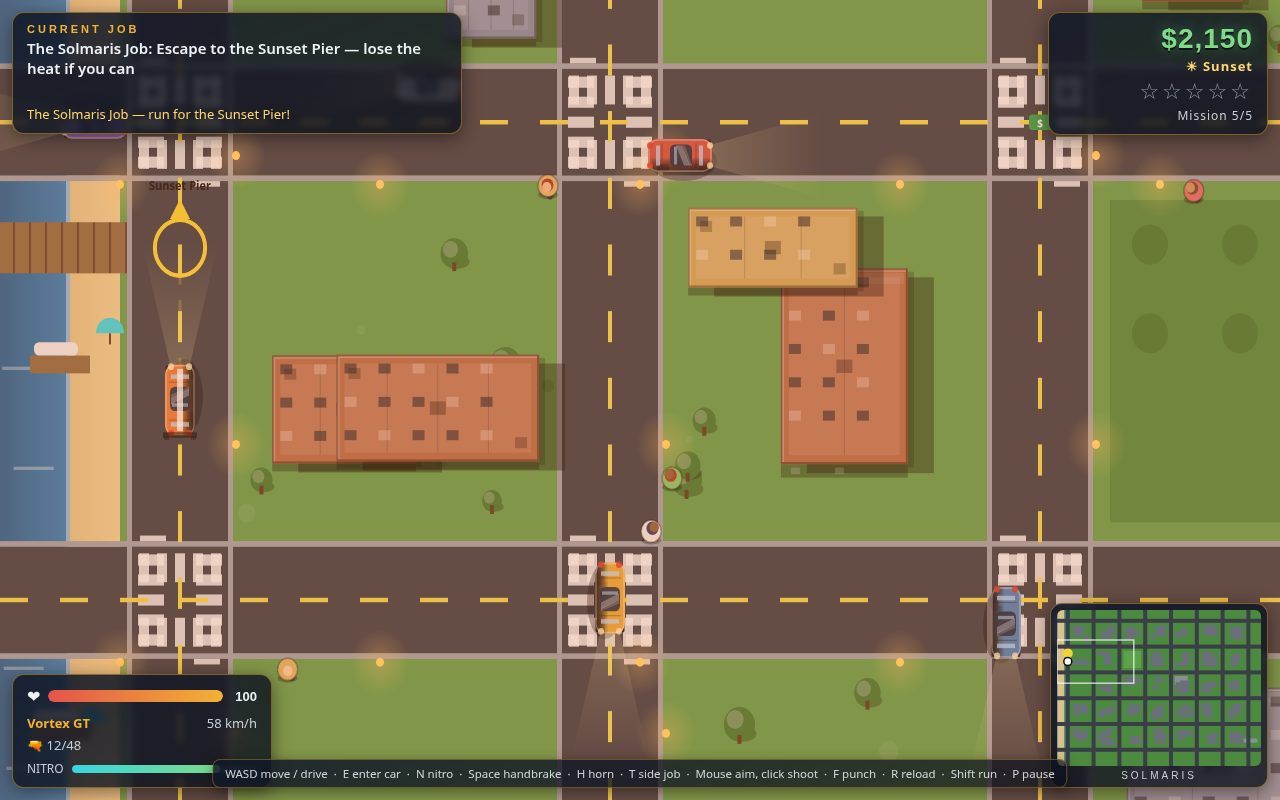
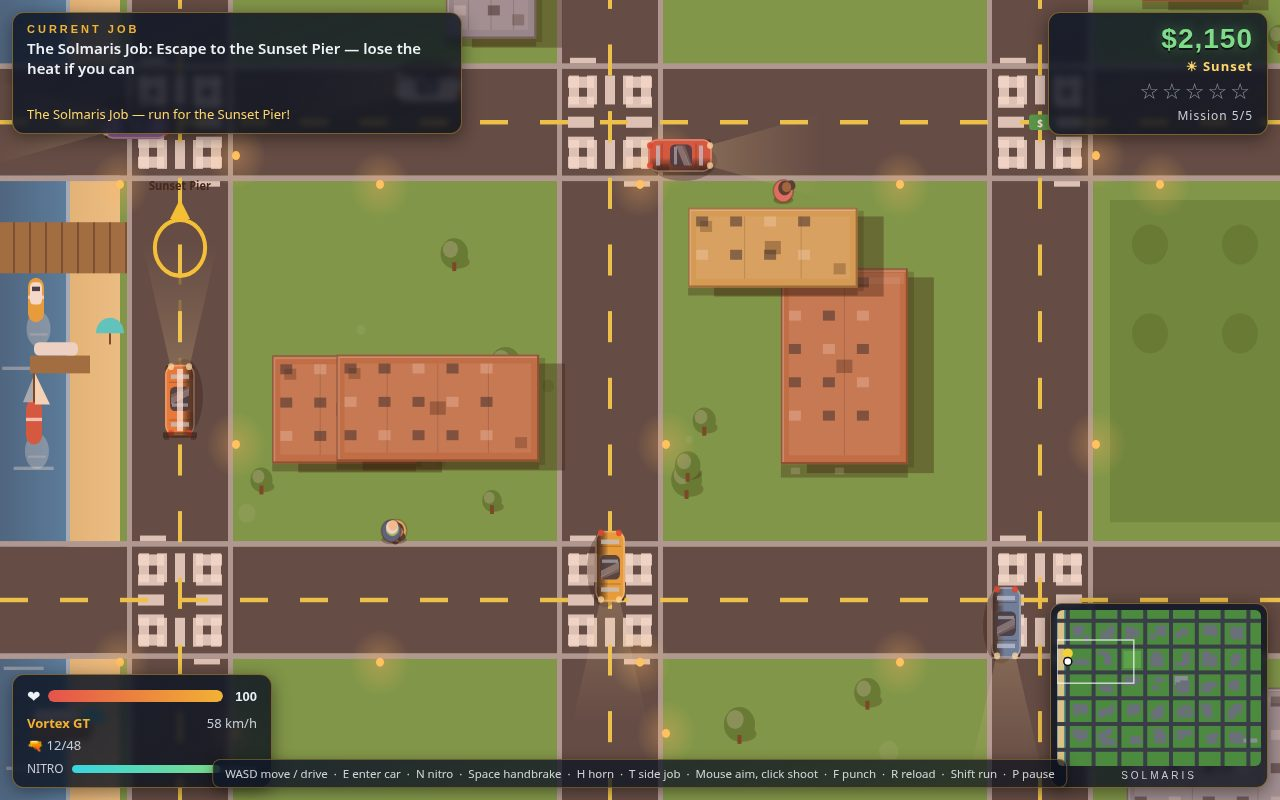
Solmaris v5: win screenshot, sunset wet reflections, harbour boats, ped hats/jackets, dynamic sign type, night braking close-up

diff --git a/game/src/render.js b/game/src/render.js
@@ -73,6 +73,54 @@ export function createRenderer(canvas, hud) {
     // Wet sand line where the water meets the beach.
     c.fillStyle = night ? 'rgba(120, 160, 200, 0.25)' : 'rgba(255,255,255,0.45)';
     c.fillRect(66, cam.y - 20, 4, VIEW_H + 40);
+    // v5 visual: near-shore boats, so the ocean strip is not just a gradient
+    // — a sailboat and a yacht at anchor, each with a pale reflection
+    // shimmering under the hull and a sail or cabin on top.
+    for (const b of city.sailboats || []) {
+      if (b.x < cam.x - 40 || b.x > cam.x + VIEW_W + 40 || b.y < cam.y - 40 || b.y > cam.y + VIEW_H + 40) continue;
+      // Reflection: a soft pale smear below the hull, drifting with the swell.
+      const sway = Math.sin(state.time * 0.9 + b.y * 0.05) * 3;
+      c.fillStyle = night ? 'rgba(140, 190, 230, 0.14)' : 'rgba(255,255,255,0.28)';
+      c.beginPath();
+      c.ellipse(b.x + sway, b.y + 26, 12, 16, 0, 0, Math.PI * 2);
+      c.fill();
+      c.fillStyle = night ? 'rgba(140, 190, 230, 0.10)' : 'rgba(255,255,255,0.20)';
+      c.fillRect(b.x - 9 + sway, b.y + 30, 18, 2);
+      // Hull: a rounded vertical hull with a pale deck stripe.
+      c.fillStyle = b.hull;
+      c.beginPath();
+      c.roundRect(b.x - 8, b.y - 20, 16, 40, 8);
+      c.fill();
+      c.fillStyle = 'rgba(255,255,255,0.75)';
+      c.fillRect(b.x - 8, b.y - 4, 16, 3);
+      if (b.kind === 'sail' && b.sail) {
+        // Mast and a triangular sail catching the sunset light.
+        c.fillStyle = '#5a3a22';
+        c.fillRect(b.x - 1, b.y - 44, 2, 26);
+        c.fillStyle = b.sail;
+        c.beginPath();
+        c.moveTo(b.x + 1, b.y - 44);
+        c.lineTo(b.x + 1, b.y - 16);
+        c.lineTo(b.x + 16, b.y - 16);
+        c.closePath();
+        c.fill();
+        c.fillStyle = 'rgba(255,255,255,0.5)';
+        c.beginPath();
+        c.moveTo(b.x - 1, b.y - 40);
+        c.lineTo(b.x - 1, b.y - 18);
+        c.lineTo(b.x - 11, b.y - 18);
+        c.closePath();
+        c.fill();
+      } else {
+        // Yacht: a white cabin with dark windows on the hull.
+        c.fillStyle = '#f2f2f2';
+        c.beginPath();
+        c.roundRect(b.x - 6, b.y - 16, 12, 20, 4);
+        c.fill();
+        c.fillStyle = '#1c2f4a';
+        c.fillRect(b.x - 4, b.y - 12, 8, 4);
+      }
+    }
     // The park block.
     c.fillStyle = night ? '#23401c' : PALETTE.park;
     c.fillRect(city.park.x, city.park.y, city.park.w, city.park.h);
@@ -274,7 +322,12 @@ export function createRenderer(canvas, hud) {
           ? 0.55 + 0.45 * Math.abs(Math.sin(state.time * 11 + b.x * 0.13))
           : 1;
         const glow = (tod === 'night' || tod === 'sunset') ? 1 : 0.55;
-        const size = Math.min(15, b.w / (b.sign.text.length * 0.8));
+        // v5: the type shrinks with the building — the plate is capped at
+        // the building width minus 18 px, so a long word on a narrow block
+        // (24H MART on a 90 px frontage) drops a size instead of spilling
+        // past the plate. city.js uses this same formula for its overlap
+        // guard, so the two can never disagree.
+        const size = Math.max(9, Math.min(15, (b.w - 18) / (b.sign.text.length * 0.68)));
         const tw = b.sign.text.length * size * 0.68;
         const cy = b.y + b.h + wallH + 13;
         // v4: a sign cut by the viewport edge reads as a broken word ("AR",
@@ -323,8 +376,9 @@ export function createRenderer(canvas, hud) {
     // v4 visual: rain-slick asphalt mirrors the street lamps — each lamp
     // stretches into a pale smear along its road, so a rainy night reads as
     // wet instead of just dark. A lamp sits 56 px off its own road, so the
-    // nearer road line decides which way the smear runs.
-    if (night && state.rain > 0.03) {
+    // nearer road line decides which way the smear runs. v5: a sunset shower
+    // gets the same treatment — wet roads at dusk, not only after dark.
+    if ((night || tod === 'sunset') && state.rain > 0.03) {
       const wet = Math.min(1, state.rain);
       for (const l of city.lamps) {
         if (l.x < cam.x - 60 || l.x > cam.x + VIEW_W + 60 || l.y < cam.y - 60 || l.y > cam.y + VIEW_H + 60) continue;
@@ -363,8 +417,9 @@ export function createRenderer(canvas, hud) {
     // v2 visual: the body turns on its eased angle, not the physics snap.
     c.rotate(car.visualAngle ?? car.angle);
     // v4 visual: on a wet night the headlights wash the asphalt ahead — a
-    // pale streak the beam cone alone does not give.
-    if (night && rain > 0.03) {
+    // pale streak the beam cone alone does not give. v5: same for a wet
+    // sunset — the wash follows the rain, not just the dark.
+    if ((night || tod === 'sunset') && rain > 0.03) {
       const wet = Math.min(1, rain);
       const wash = c.createLinearGradient(CAR.length / 2, 0, CAR.length / 2 + 95, 0);
       wash.addColorStop(0, `rgba(255, 240, 190, ${0.16 * wet})`);
@@ -592,22 +647,32 @@ export function createRenderer(canvas, hud) {
     c.ellipse(0, 8, 10, 4, 0, 0, Math.PI * 2);
     c.fill();
     // v2 visual: a real walk cycle — the feet alternate along the facing
-    // direction and the arms swing against them.
+    // direction and the arms swing against them. v5: the arms wear the
+    // jacket when the ped has one, so the jacket reads from every angle.
+    const top = ped.mission ? '#f2d234' : (ped.jacket || ped.shirt);
     c.fillStyle = '#2c2f36';
     c.beginPath();
     c.arc(px * -4 + fx * swing, py * -4 + fy * swing + 3, 3.4, 0, Math.PI * 2);
     c.arc(px * 4 - fx * swing, py * 4 - fy * swing + 3, 3.4, 0, Math.PI * 2);
     c.fill();
-    c.fillStyle = ped.mission ? '#f2d234' : ped.shirt;
+    c.fillStyle = top;
     c.beginPath();
     c.arc(px * -6 - fx * swing * 0.6, py * -6 - fy * swing * 0.6, 3, 0, Math.PI * 2);
     c.arc(px * 6 + fx * swing * 0.6, py * 6 + fy * swing * 0.6, 3, 0, Math.PI * 2);
     c.fill();
     // Body with a shaded edge, then the head toward the facing direction.
-    c.fillStyle = ped.mission ? '#f2d234' : ped.shirt;
+    // v5: a jacket is an outer ring with the shirt showing at the chest,
+    // so the two colours stack instead of one hiding the other.
+    c.fillStyle = top;
     c.beginPath();
     c.arc(0, 0, 10, 0, Math.PI * 2);
     c.fill();
+    if (ped.jacket && !ped.mission) {
+      c.fillStyle = ped.shirt;
+      c.beginPath();
+      c.arc(fx * 2, fy * 2, 6.5, 0, Math.PI * 2);
+      c.fill();
+    }
     c.strokeStyle = 'rgba(0,0,0,0.3)';
     c.lineWidth = 1.5;
     c.beginPath();
@@ -619,6 +684,36 @@ export function createRenderer(canvas, hud) {
     c.beginPath();
     c.arc(fx * 1.5, fy * 1.5 - 2, 6, 0, Math.PI * 2);
     c.fill();
+    // v5 visual: a hat, drawn in the ped's own facing frame so the brim
+    // points where they walk — a cap dome over the back of the head with
+    // the brim sticking out front, or a wide sun-hat brim with a dome.
+    // It goes on before the skin, so the face stays visible in front of it.
+    if (ped.hat) {
+      c.save();
+      c.translate(fx * 1.5, fy * 1.5 - 2);
+      c.rotate(ped.angle);
+      c.fillStyle = ped.hat.color;
+      if (ped.hat.type === 'cap') {
+        // Full disc, not just the back half — at screenshot scale a half
+        // dome hides under the hair, while a full crown reads as a hat
+        // with the face in front of it and the brim sticking out forward.
+        c.beginPath();
+        c.arc(0, 0, 6.5, 0, Math.PI * 2);
+        c.fill();
+        c.beginPath();
+        c.roundRect(3, -4.5, 8, 9, 4);
+        c.fill();
+      } else {
+        c.beginPath();
+        c.ellipse(0, 0, 9.5, 8.5, 0, 0, Math.PI * 2);
+        c.fill();
+        c.fillStyle = 'rgba(0,0,0,0.15)';
+        c.beginPath();
+        c.arc(0, 0, 5.5, 0, Math.PI * 2);
+        c.fill();
+      }
+      c.restore();
+    }
     c.fillStyle = ped.skin || '#e8b98a';
     c.beginPath();
     c.arc(fx * 3.5, fy * 3.5 - 2, 4.6, 0, Math.PI * 2);

diff --git a/game/src/city.js b/game/src/city.js
@@ -75,17 +75,19 @@ export function buildCity(seed) {
   // same street line. The width estimate matches the renderer's font math
   // (bold Arial Black, measured ~0.68 em per glyph plus padding — the old
   // 0.42 estimate was a third too narrow, so real words spilled past the
-  // plate and past each other).
+  // plate and past each other). v5: the size is now the renderer's dynamic
+  // one — the plate is capped at the building width minus 18 px, so a long
+  // word on a narrow building shrinks its type instead of spilling over.
   for (let i = 0; i < buildings.length; i++) {
     const a = buildings[i];
     if (!a.sign) continue;
-    const aSize = Math.min(15, a.w / (a.sign.text.length * 0.8));
+    const aSize = Math.max(9, Math.min(15, (a.w - 18) / (a.sign.text.length * 0.68)));
     const aHalf = (a.sign.text.length * aSize * 0.68) / 2 + 8;
     const aY = a.y + a.h + (a.tall ? 12 : 7) + 13;
     for (let j = i + 1; j < buildings.length; j++) {
       const b = buildings[j];
       if (!b.sign) continue;
-      const bSize = Math.min(15, b.w / (b.sign.text.length * 0.8));
+      const bSize = Math.max(9, Math.min(15, (b.w - 18) / (b.sign.text.length * 0.68)));
       const bHalf = (b.sign.text.length * bSize * 0.68) / 2 + 8;
       const bY = b.y + b.h + (b.tall ? 12 : 7) + 13;
       const cxA = a.x + a.w / 2;
@@ -157,6 +159,17 @@ export function buildCity(seed) {
   const runway = { x: 2960, y: 2140, w: 380, h: 70 };
   const plaza = { x: xs[4] + 60, y: ys[2] + 60, w: 220, h: 150 };
   const pier = { x: 0, y: 700, w: 170, h: 46 };
+  // v5: near-shore boats in the ocean strip (x 0–70), fixed spots so every
+  // seed draws the same harbour. Both sit mid-frame in the coast shot
+  // (camera y 500–1220, so screen y = world y − 500): the sailboat at 880
+  // and the yacht at 770 sit in the gap between the y=610 and y=1040 roads,
+  // clear of the pier (700–746), the docks (820–836) and both HUD panels.
+  // The first spots tried failed visibly: 580 sat behind the objective
+  // panel, and 1080 sat under the y=1040 road, which paints over the boats.
+  const sailboats = [
+    { x: 34, y: 880, hull: '#c94f43', sail: '#f2ead8', kind: 'sail' },
+    { x: 36, y: 770, hull: '#e0a53a', sail: null, kind: 'yacht' },
+  ];
   const docks = [];
   // v4: the docks sit between the cross streets now — the old 90 px spacing
   // put one dock under the y=1040 road, where the asphalt painted over it.
@@ -169,7 +182,7 @@ export function buildCity(seed) {
     seed,
     xs, ys,
     buildings, trees, lamps, parked,
-    umbrellas, runway, plaza, pier, docks, tufts,
+    umbrellas, runway, plaza, pier, docks, tufts, sailboats,
     park: { x: xs[2] + ROAD.width / 2 + 22, y: ys[1] + ROAD.width / 2 + 22, w: xs[3] - xs[2] - ROAD.width - 44, h: ys[2] - ys[1] - ROAD.width - 44 },
     beach: { x: 0, w: 120 },
     ocean: { x: 0, w: 70 },

diff --git a/game/src/entities.js b/game/src/entities.js
@@ -76,6 +76,18 @@ export function createPed(x, y, rng) {
   // v4 visual: hair and skin vary too, so a crowd stops looking cloned.
   const hairs = ['#2c2c2c', '#6a4a2a', '#d8b26a', '#a03a2a', '#e8e8e8', '#3a3a5a'];
   const skins = ['#e8b98a', '#c98d5f', '#8a5f3d', '#f2c9a0'];
+  // v5 visual: a second layer of variety on top of hair/skin — about one
+  // pedestrian in five wears a hat (cap or sun hat), about one in three
+  // wears a jacket over the shirt, so two peds with the same hair still
+  // read as different people at screenshot scale.
+  const hats = [
+    { type: 'cap', color: '#2c2f36' },
+    { type: 'cap', color: '#c94f43' },
+    { type: 'cap', color: '#3f8f5f' },
+    { type: 'sunhat', color: '#e8d39a' },
+    { type: 'sunhat', color: '#e8e8e8' },
+  ];
+  const jackets = ['#3a5a8a', '#8a3a3a', '#3a7a4a', '#5a3a7a', '#b0782a', '#2c4a4a'];
   return {
     kind: 'ped',
     x, y,
@@ -84,6 +96,8 @@ export function createPed(x, y, rng) {
     shirt: pick(rng, shirts),
     hair: pick(rng, hairs),
     skin: pick(rng, skins),
+    hat: rng() < 0.22 ? pick(rng, hats) : null,
+    jacket: rng() < 0.35 ? pick(rng, jackets) : null,
     // Pedestrians stroll along sidewalks: pick a nearby road and a direction.
     roadAxis: rng() < 0.5 ? 'x' : 'y',
     roadLine: 0,

diff --git a/game/src/shots.js b/game/src/shots.js
@@ -89,8 +89,9 @@ export function stageShot(name, state) {
   }
   if (name === 'win') {
     // v4: the end screen staged as a scene — all five missions done, Danny
-    // back at the pier at sunset with the take counted. Not in shots.json
-    // yet (still 4 frames); run ?shot=win to preview the swap.
+    // back at the pier at sunset with the take counted. v5: this is shot 1
+    // in shots.json now (it replaces the title screen, whose info the HUD
+    // on the other three shots already carries).
     p.x = 180;
     p.y = 583;
     p.inCar = null;
@@ -116,6 +117,11 @@ export function stageShot(name, state) {
     car.visualAngle = Math.PI / 2; // v2 visual: same — match the staged heading.
     car.speed = 300;
     car.color = '#4a7fb5';
+    // v5: the night shot is a braking close-up — the tail lights flare and
+    // the red bloom pools on the wet asphalt behind the car, so the brake
+    // light is the focal point of the rainy frame. (Shot mode never steps
+    // the simulation, so driveCar never overwrites this staged braking.)
+    car.braking = true;
     p.inCar = car;
     p.x = car.x;
     p.y = car.y;

diff --git a/game/src/main.js b/game/src/main.js
@@ -24,6 +24,10 @@ const seed = Number.isInteger(seedParam) ? seedParam : 1;
 // v2: ?clock=sunset|night|dawn|day pins the time of day (screenshots use it).
 const CLOCK_PRESETS = { day: 0.2, sunset: 0.62, night: 0.8, dawn: 0.95 };
 const clockPreset = CLOCK_PRESETS[params.get('clock') || ''];
+// v5: ?rain=0..1 pins the rain for a staged shot (e.g. a sunset shower, to
+// check the wet-road reflections outside the night shot). Normal play never
+// passes it, so the drifting weather is untouched.
+const rainParam = Number.parseFloat(params.get('rain') ?? '');
 
 const canvas = document.getElementById('game');
 const status = document.getElementById('status');
@@ -586,6 +590,10 @@ function startGame(fresh) {
 
 function runShot(name) {
   const scene = stageShot(name, state);
+  if (Number.isFinite(rainParam)) {
+    state.rain = clamp(rainParam, 0, 1);
+    state.rainTarget = state.rain;
+  }
   screen = scene.screen;
   if (screen === SCREEN_PLAY) audio.unlock();
   let painted = 0;

diff --git a/REPORT.md b/REPORT.md
@@ -4,6 +4,20 @@
 **完成时间：** 2026-11-21 15:40 CST
 **工作目录：** `/home/hatch/workspace/makefun/workers/lane7-gta6-b/`
 
+## v5 — 2026-11-21（本次更新，录制 01a1fd23-69d2-753c-8e3f-920e5b9c9869 下由本 agent 手写）
+
+v4 的 6 项待办全部做完，玩法数值、存档键、vendor、LICENSE 未动：
+
+- **胜利截图取舍：** `shots.json` 的 1 号从 `1-start.jpg`（`?shot=start`）换成 `1-win.jpg`（`?shot=win&seed=1&clock=sunset`）——标题信息在其它三张的 HUD 里都有，而胜利画面是唯一展示终章结算的。重拍确认：结算面板完整（"THE SOLMARIS JOB — DONE"、Final take $3,240、All 5 missions complete、Lifetime $3,240 earned · 3 side jobs · 7 cars stolen、Mission 5/5、HUD $3,240），`1-start.jpg` 已从仓库移除（备份在 `before-visual-v5/`）。
+- **湿反射放宽到日落：** 路灯光斑与车灯水光的条件从 `night` 改为 `night || sunset`（`render.js` 两处）。验证用新增的 `?rain=` 参数（`main.js`，仅截图定格用，正常游玩不传即不受影响）：`?shot=coast&seed=1&clock=sunset&rain=0.55` 拍到日落雨天——雨丝、路灯光斑、车灯水光齐全。
+- **海岸再加近岸元素：** 西侧海面加一艘红船体帆船（白三角帆）与一艘金色游艇（白舱 + 深窗），各带一道淡色倒影。位置试了三轮才定：580 藏在任务 HUD 后面、1080 被 y=1040 横路盖住（路后画，船不可见）——现定在 880（帆船）与 770（游艇），都在 610–1040 路间空隙、栈桥（700–746）与码头（820–836）之外，3 号截图左缘两船同框清晰。
+- **行人再加一档区分：** 约 1/5 戴帽子（鸭舌帽/遮阳帽，5 色）、约 1/3 穿夹克（6 色，夹克为外环、衬衫露胸前），与 v4 的发色/肤色叠加。静态复测 260 个行人：帽子 60（鸭舌帽 36、遮阳帽 24）、夹克 90。截图验证用确定性重放（Node 直跑 `spawnTraffic` + `stageShot` + 90 步 `updatePeds`）定位到帧内戴帽行人再放大裁切：夜景一红帽行人（红帽 + 红夹克 + 紫衬衫）与海岸一夹克行人（深蓝夹克环 + 米色衬衫）均可见；鸭舌帽改成整圆帽冠后比半圆更易认。
+- **招牌字号按楼宽动态缩放：** 字号公式从 `min(15, w/(len*0.8))` 改为 `max(9, min(15, (w-18)/(len*0.68)))`——底板宽度封顶楼宽减 18px，窄楼长招牌（如 24H MART）自动降字号；`city.js` 的重叠守卫同步同公式。seed 1/2/3/7/42 复测：零重叠、零超宽底板；夜景 "SURF"/"TACOS"、海岸 "DANCE"/"HOTEL" 截图确认完整可读。
+- **夜间刹车特写：** `?shot=night` 的车加 `braking=true`（截图模式不跑模拟步进，`driveCar` 不会覆盖）。4 号截图：尾灯增亮变大、车尾地面红色光晕，与雨丝、路灯光晕、湿路面反射同框，不冲突。
+- **截图：** 4 张全部重拍（1280×800，95–110 KiB，零报错、零失败请求）；升级前对照存 `before-visual-v5/`（不进仓库）。
+- **验证：** `node --check` 11 个 JS 全部通过（`serve.ts`/`main.ts` 是 TS，`node --check` 本来就不认，改动前即如此）；实机游玩（Space 开始、上车 Bison、任务推进到 "Drive to the Marina"、+$80 拾取、步行开枪 12→11 发）零报错；单独测速：W 直线加速到 101 km/h（轿车极速 560×0.18），中途一次撞车式减速到 7 km/h 后重新加速回 101，属既有碰撞回弹行为，非 v5 回归；`main.ts` 两次运行 dossier.json 字节一致（710,988 字节 < 1.5 MiB）；`grep` 确认 game/ 零外部请求。
+- **未动：** vendor/makefun-game.ts、LICENSE、玩法数值、存档键（仍为 `solmaris.save.v2`）、`main.ts`、`serve.ts`、`config.js`、`missions.js`。
+
 ## v4 — 2026-11-21（本次更新，录制 01a1fd23-69d2-753c-8e3f-920e5b9c9869 下由本 agent 手写）
 
 v3 的 5 项待办全部做完，玩法数值、存档键、vendor、LICENSE 未动：

diff --git a/README.md b/README.md
@@ -28,6 +28,8 @@ and shake the camera, and the HUD and menus share one gold-on-navy look.
   a road grid, buildings, a park, a beach and ocean on the west edge, street
   lamps, trees and parked cars. v2 adds landmarks: an airfield runway, a
   downtown fountain plaza, a wooden pier, marina docks and beach umbrellas.
+  v5 adds a sailboat and a yacht at anchor off the beach, each with a
+  reflection shimmering under the hull.
 - **A living clock** (v2) — a full day turns over as you play: dawn, day,
   sunset and night, each with its own light. Night brings lit windows, street
   lamps and headlights; sunset turns the whole city orange.
@@ -37,7 +39,11 @@ and shake the camera, and the HUD and menus share one gold-on-navy look.
   `Space` for the handbrake — drift, leave skid marks and tyre smoke.
 - **Traffic and pedestrians** — cars cruise the roads, slow for traffic and
   turn at intersections; pedestrians stroll the sidewalks and flee gunfire.
-  Stuck traffic honks at you (v2), and `H` lets you honk back.
+  Stuck traffic honks at you (v2), and `H` lets you honk back. v5: about one
+  pedestrian in five wears a cap or a sun hat and one in three wears a
+  jacket over their shirt, on top of the v4 hair and skin variety; neon signs
+  shrink their type to fit narrow buildings, and a sunset shower gets the
+  same wet-road reflections as a rainy night.
 - **Wanted level 0–5 and police** — crimes raise the heat; patrol cars chase,
   ram and shoot, and can catch Danny on foot (Busted) or take him down
   (Wasted). Lose them long enough and the heat cools off. v2: at 4+ stars the
@@ -97,10 +103,10 @@ Screenshot scenes (deterministic, `seed=1`):
 
 | File | Scene |
 | --- | --- |
-| `1-start.jpg` | `?shot=start&seed=1&clock=day` — title over a busy street |
+| `1-win.jpg` | `?shot=win&seed=1&clock=sunset` — the win screen: final take $3,240, all 5 missions complete, over the pier at sunset |
 | `2-chase.jpg` | `?shot=chase&seed=1&clock=sunset` — sunset police pursuit in a sports car on nitro, 3 wanted stars |
-| `3-coast.jpg` | `?shot=coast&seed=1&clock=sunset` — the final escape run down the beach road: Sunset Pier, umbrellas, ocean shimmer |
-| `4-night.jpg` | `?shot=night&seed=1&clock=night` — night driving downtown in the rain, wet-road reflections |
+| `3-coast.jpg` | `?shot=coast&seed=1&clock=sunset` — the final escape run down the beach road: Sunset Pier, umbrellas, sailboat and yacht at anchor, ocean shimmer |
+| `4-night.jpg` | `?shot=night&seed=1&clock=night` — night driving downtown in the rain, braking under the street lamps, wet-road reflections |
 
 `?clock=day|sunset|night|dawn` also pins the time of day in free play.
 
